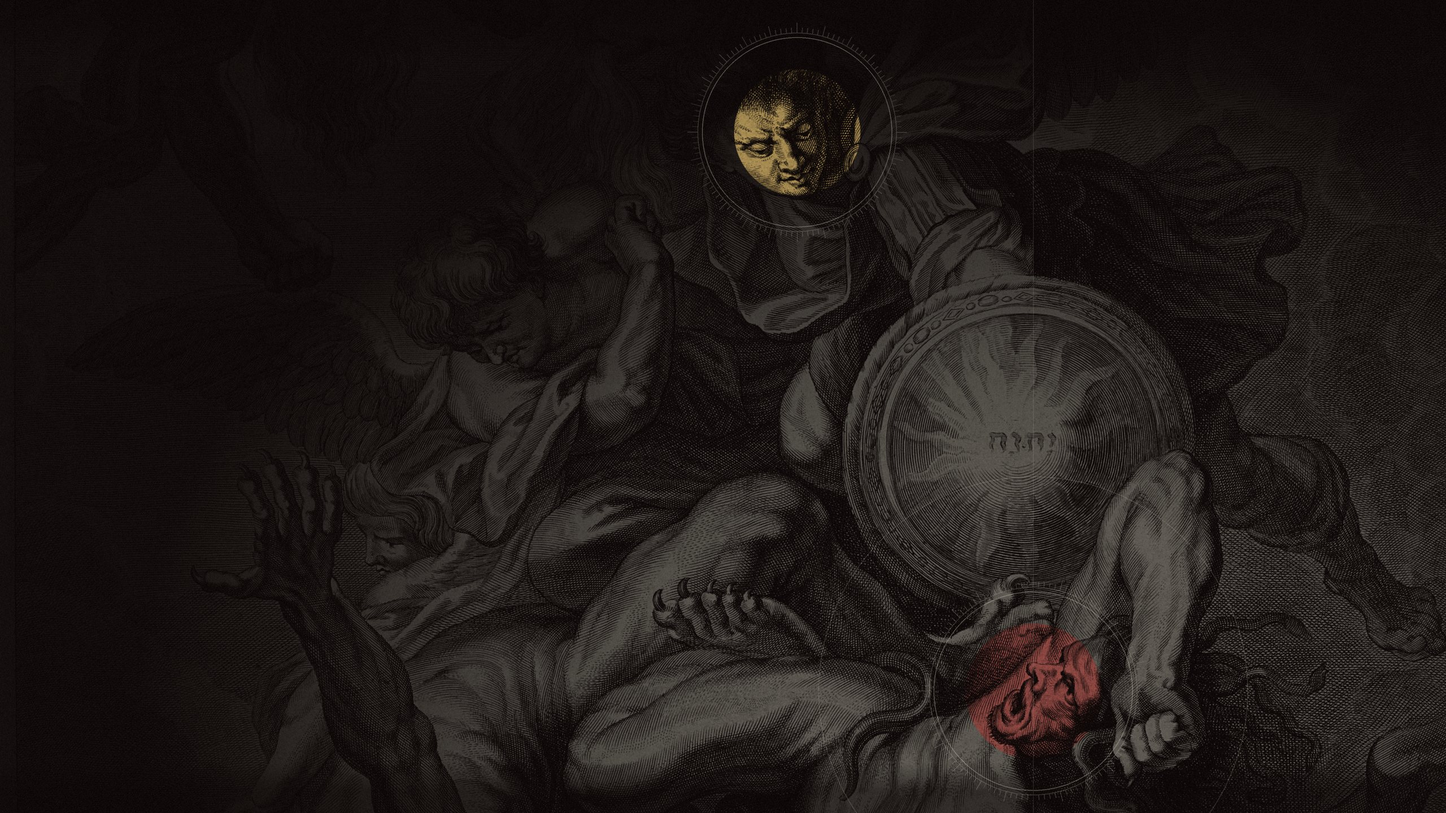
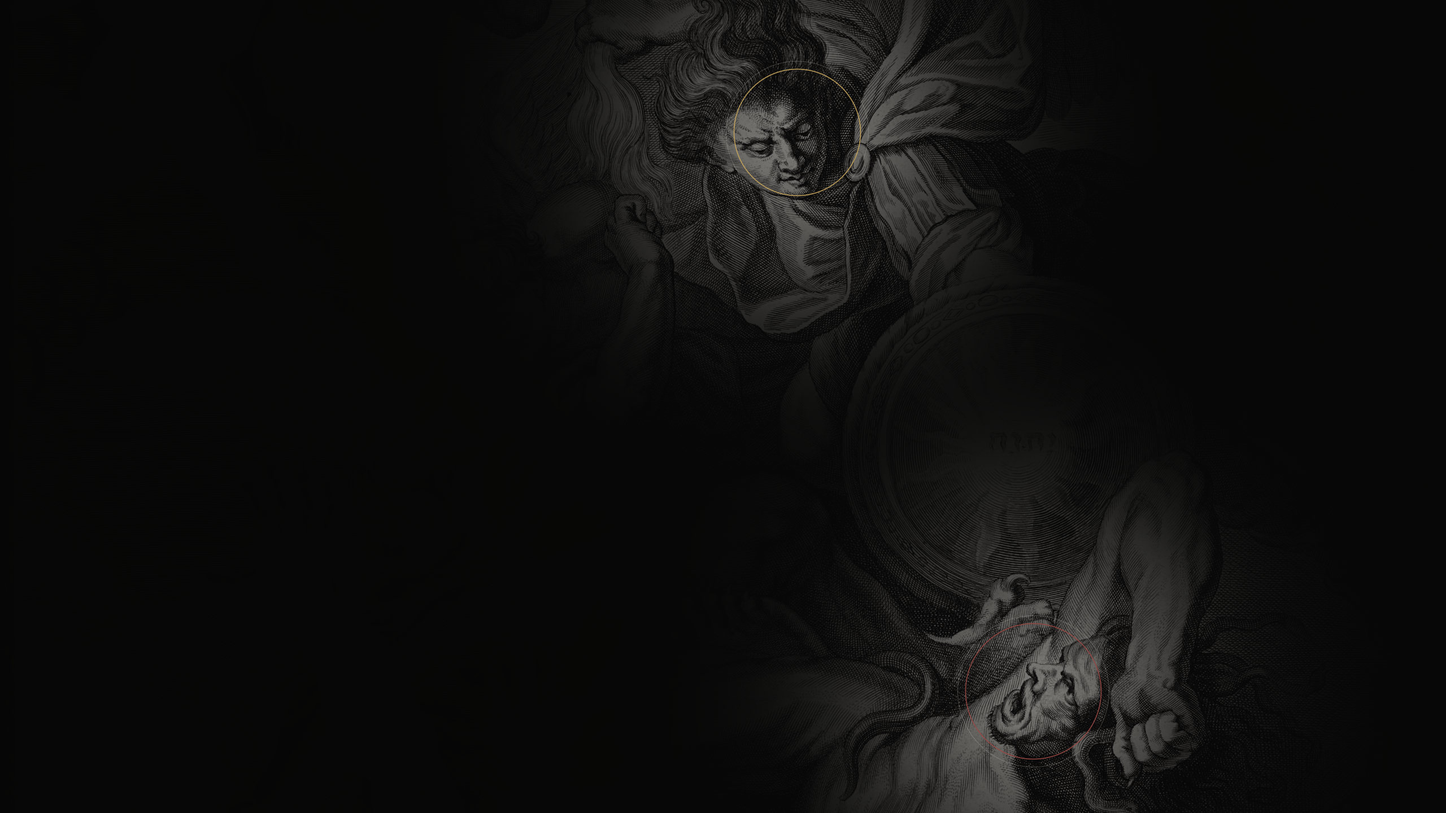
feat(theme): change the plate and the lines to version 2 of the design
The engraving is printed from the scan at its full resolution in neutral ink and paper, almost black, with a glow around the two rings. Borders follow the colour of the theme and the active window has the full accent.

diff --git a/README.md b/README.md
@@ -8,7 +8,7 @@ A theme for Strix, outside the eight Roman gods: Lucifer, thrown down by the arc
 
 ## Picture
 
-Jacob Neefs after Peter Paul Rubens, S. Michael, Antwerp, 1620 to 1680, published by Gilles Hendricx. Rijksmuseum RP-P-OB-23.930, public domain. Michael with the shield of God throws Lucifer out of heaven. Cropped to both of them and printed in the inks of the theme, like the plates of the gods, with a gold disc around Michael's head and a red one around Lucifer's, by `strixui pack` of StrixUI.
+Jacob Neefs after Peter Paul Rubens, S. Michael, Antwerp, 1620 to 1680, published by Gilles Hendricx. Rijksmuseum RP-P-OB-23.930, public domain. Michael with the shield of God throws Lucifer out of heaven. Cropped to both of them and printed like the dark plates of the gods in version 2 of the design: neutral ink and paper, almost black, with a glow around a gold ring on Michael's head and a red one on Lucifer's, by `strixui pack` of [strixui-v2](https://github.com/liviosysctl/strixui-v2).
 
 ## Use it
 
@@ -25,7 +25,7 @@ Every `strix-update` then brings the newest version of this repository.
 The theme is made from `source.toml`. Change the colours, the placement or the discs there, then:
 
 ```sh
-cargo run -rq --manifest-path ../strixui/tools/Cargo.toml -- pack .    # ends with FAILS 0
+cargo run -rq --manifest-path ../strixui-v2/tools/Cargo.toml -- pack .    # ends with FAILS 0
 theme repos check .    # the theme engine of Strix, as CI runs it
 ```
 
